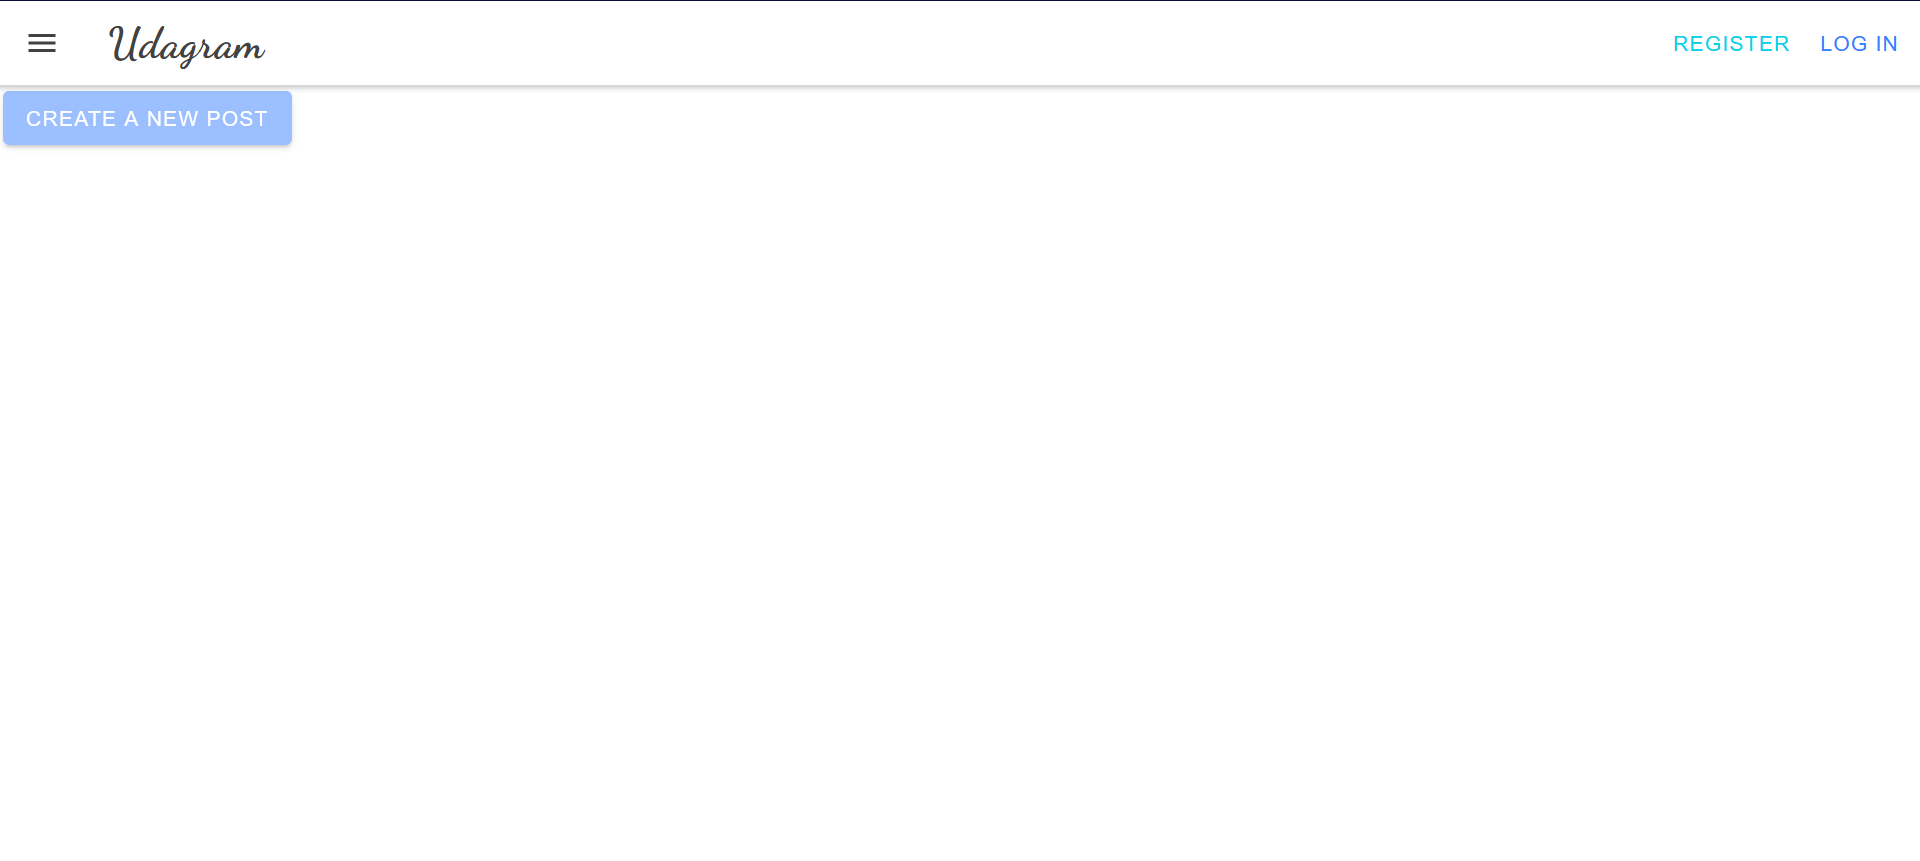
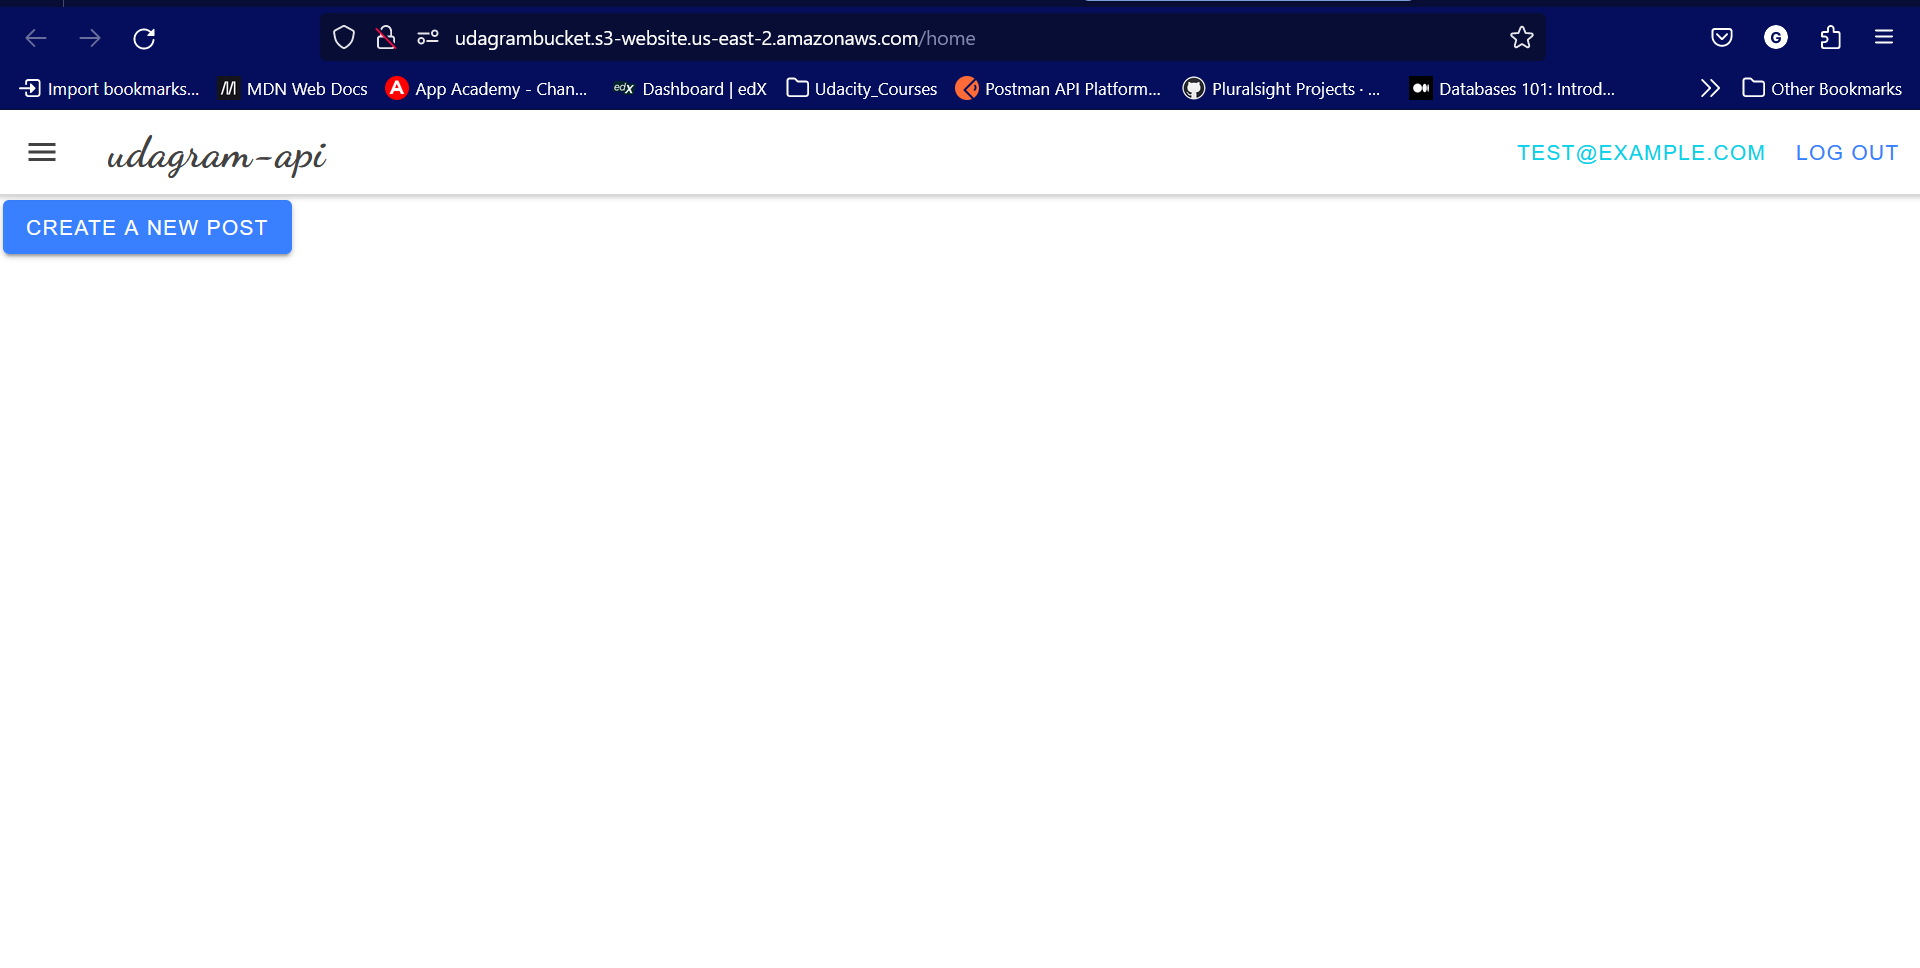
update app running image & app name in env.ts

Changed region(s): [[0.0, 0.0, 1.0, 0.2718]]

diff --git a/udagram/udagram-frontend/src/environments/environment.ts b/udagram/udagram-frontend/src/environments/environment.ts
@@ -4,8 +4,8 @@
 
 export const environment = {
   production: false,
-  appName: 'Udagram',
-  apiHost: 'Udagramapi-env.eba-ncbczgp9.us-east-1.elasticbeanstalk.com/api/v0/'
+  appName: 'udagram-api',
+  apiHost: 'http://udagramapi-env.eba-ncbczgp9.us-east-1.elasticbeanstalk.com/api/v0'
 };
 
 /*

diff --git a/udagram/udagram-frontend/src/environments/environment.prod.ts b/udagram/udagram-frontend/src/environments/environment.prod.ts
@@ -4,8 +4,8 @@
 
 export const environment = {
   production: true,
-  appName: 'Udagram',
-  apiHost: 'Udagramapi-env.eba-ncbczgp9.us-east-1.elasticbeanstalk.com/api/v0/'
+  appName: 'udagram-api',
+  apiHost: 'http://udagramapi-env.eba-ncbczgp9.us-east-1.elasticbeanstalk.com/api/v0'
 };
 
 /*
